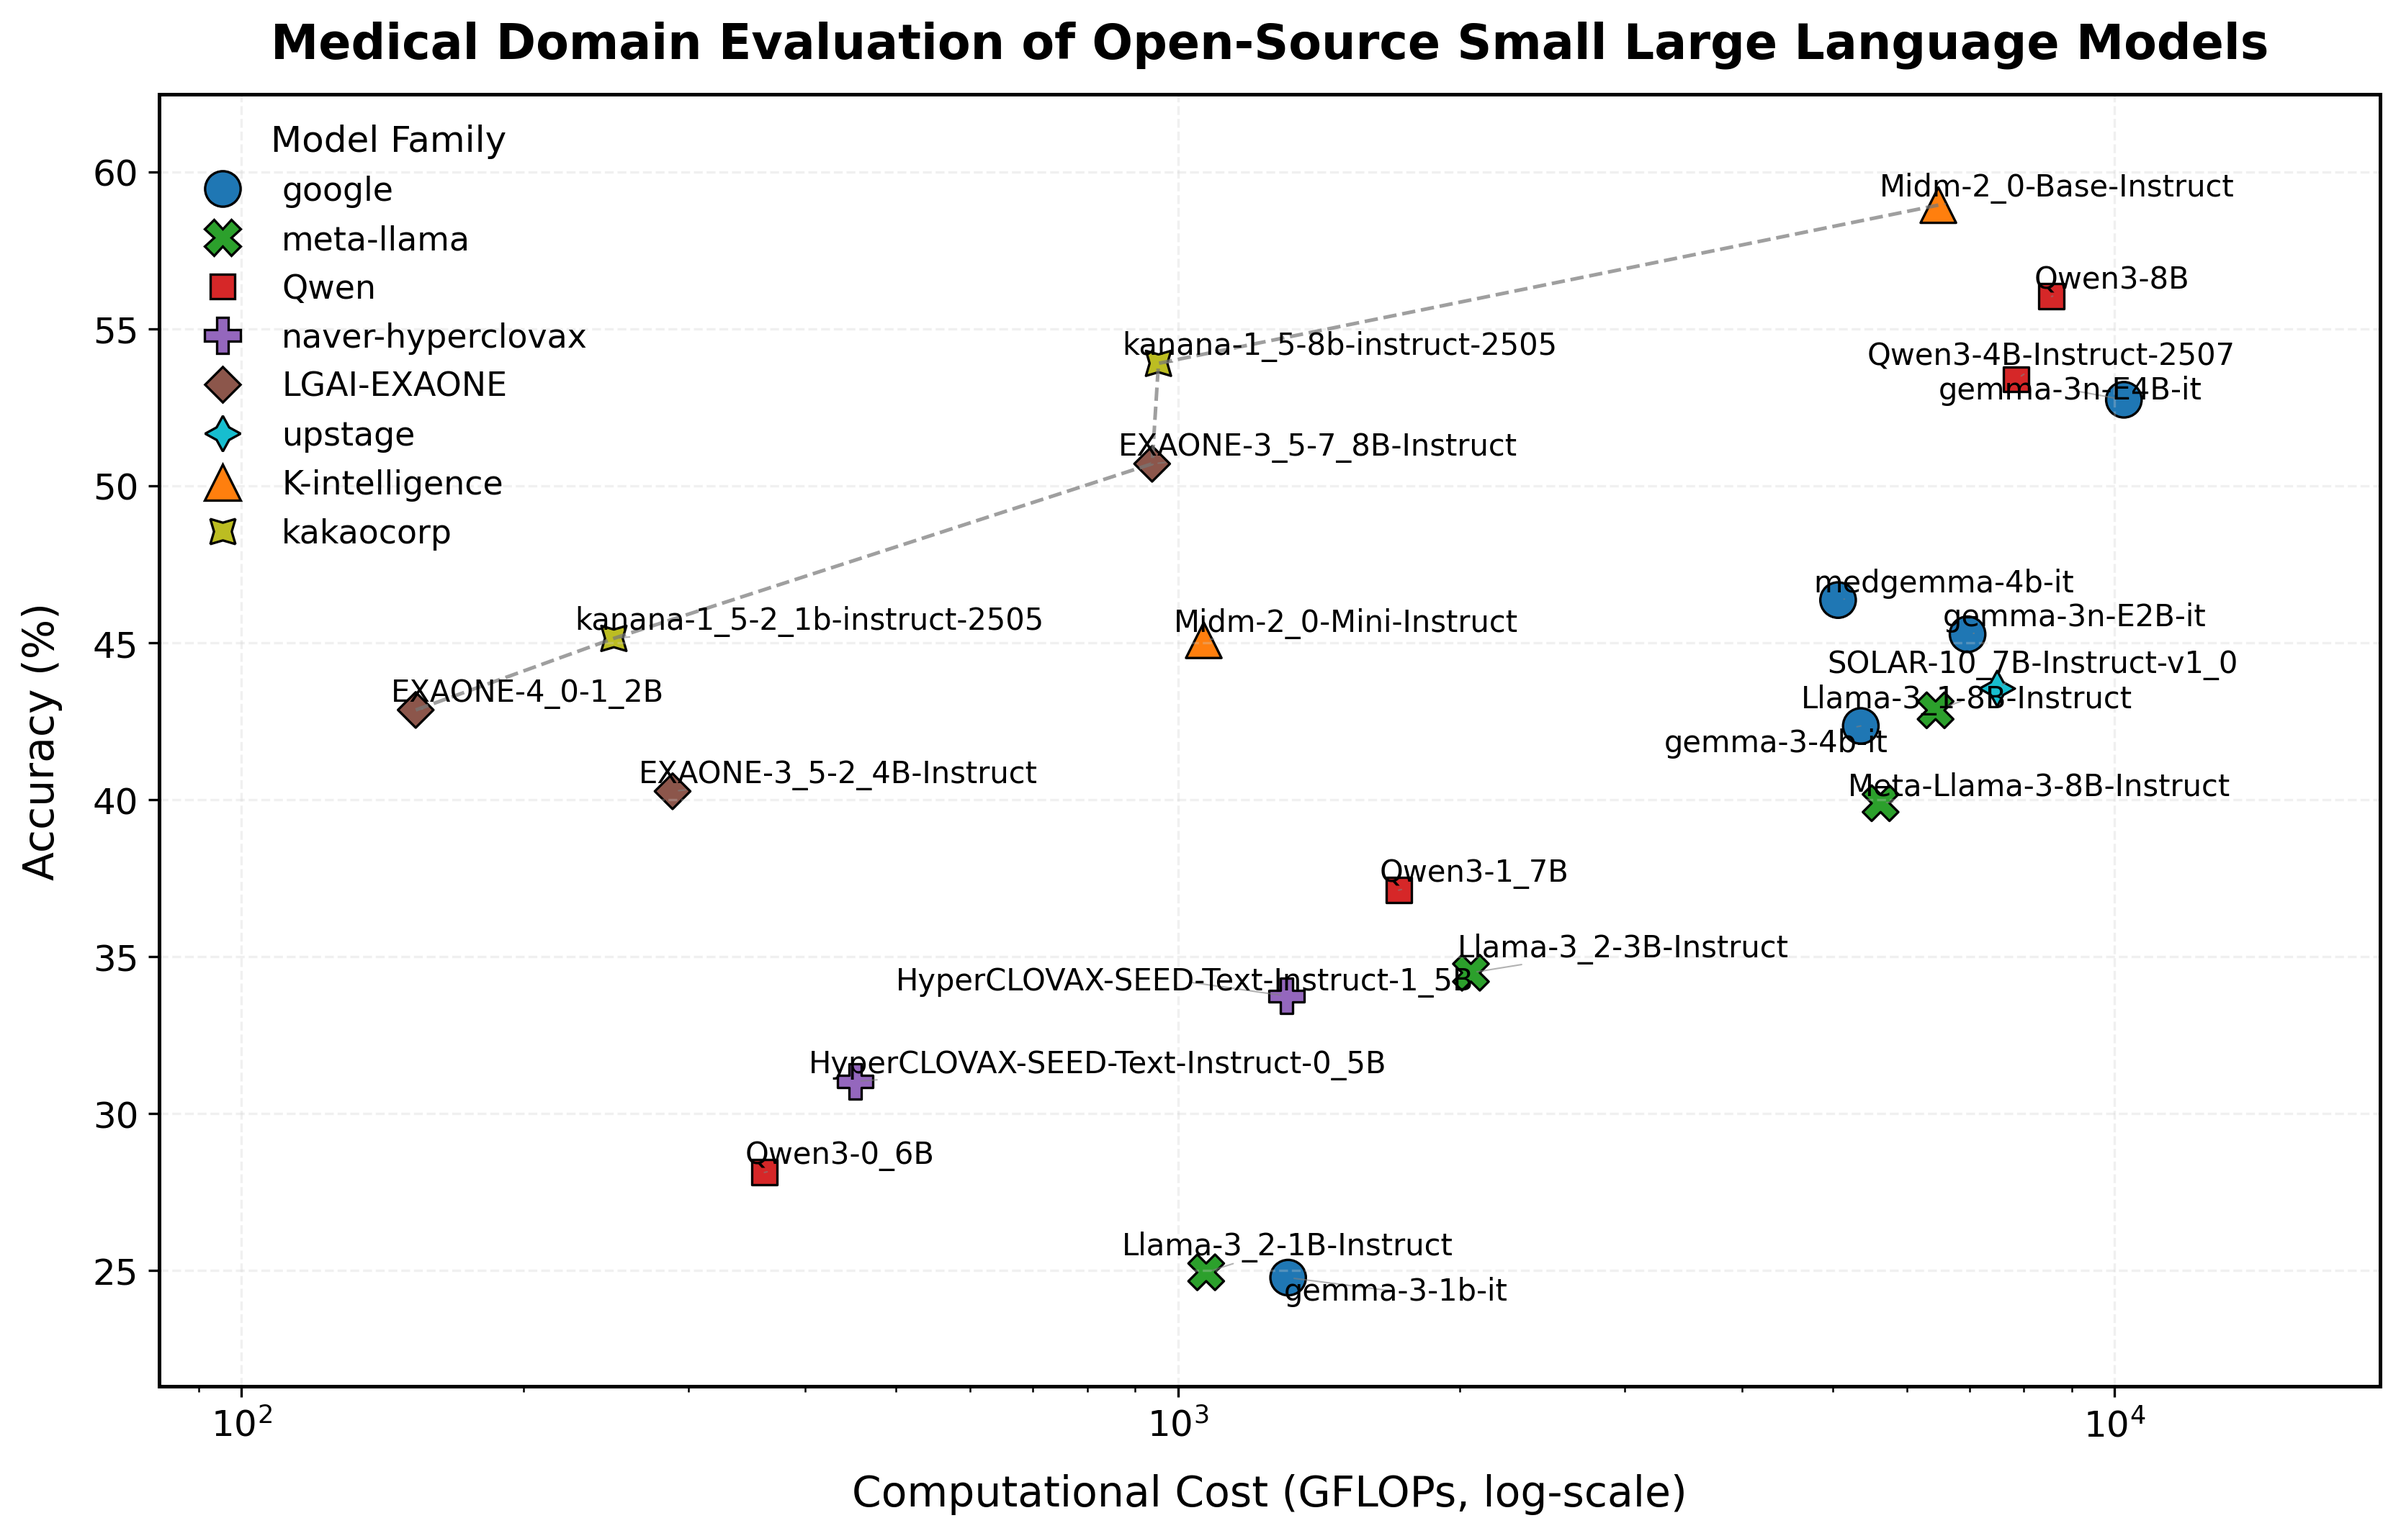
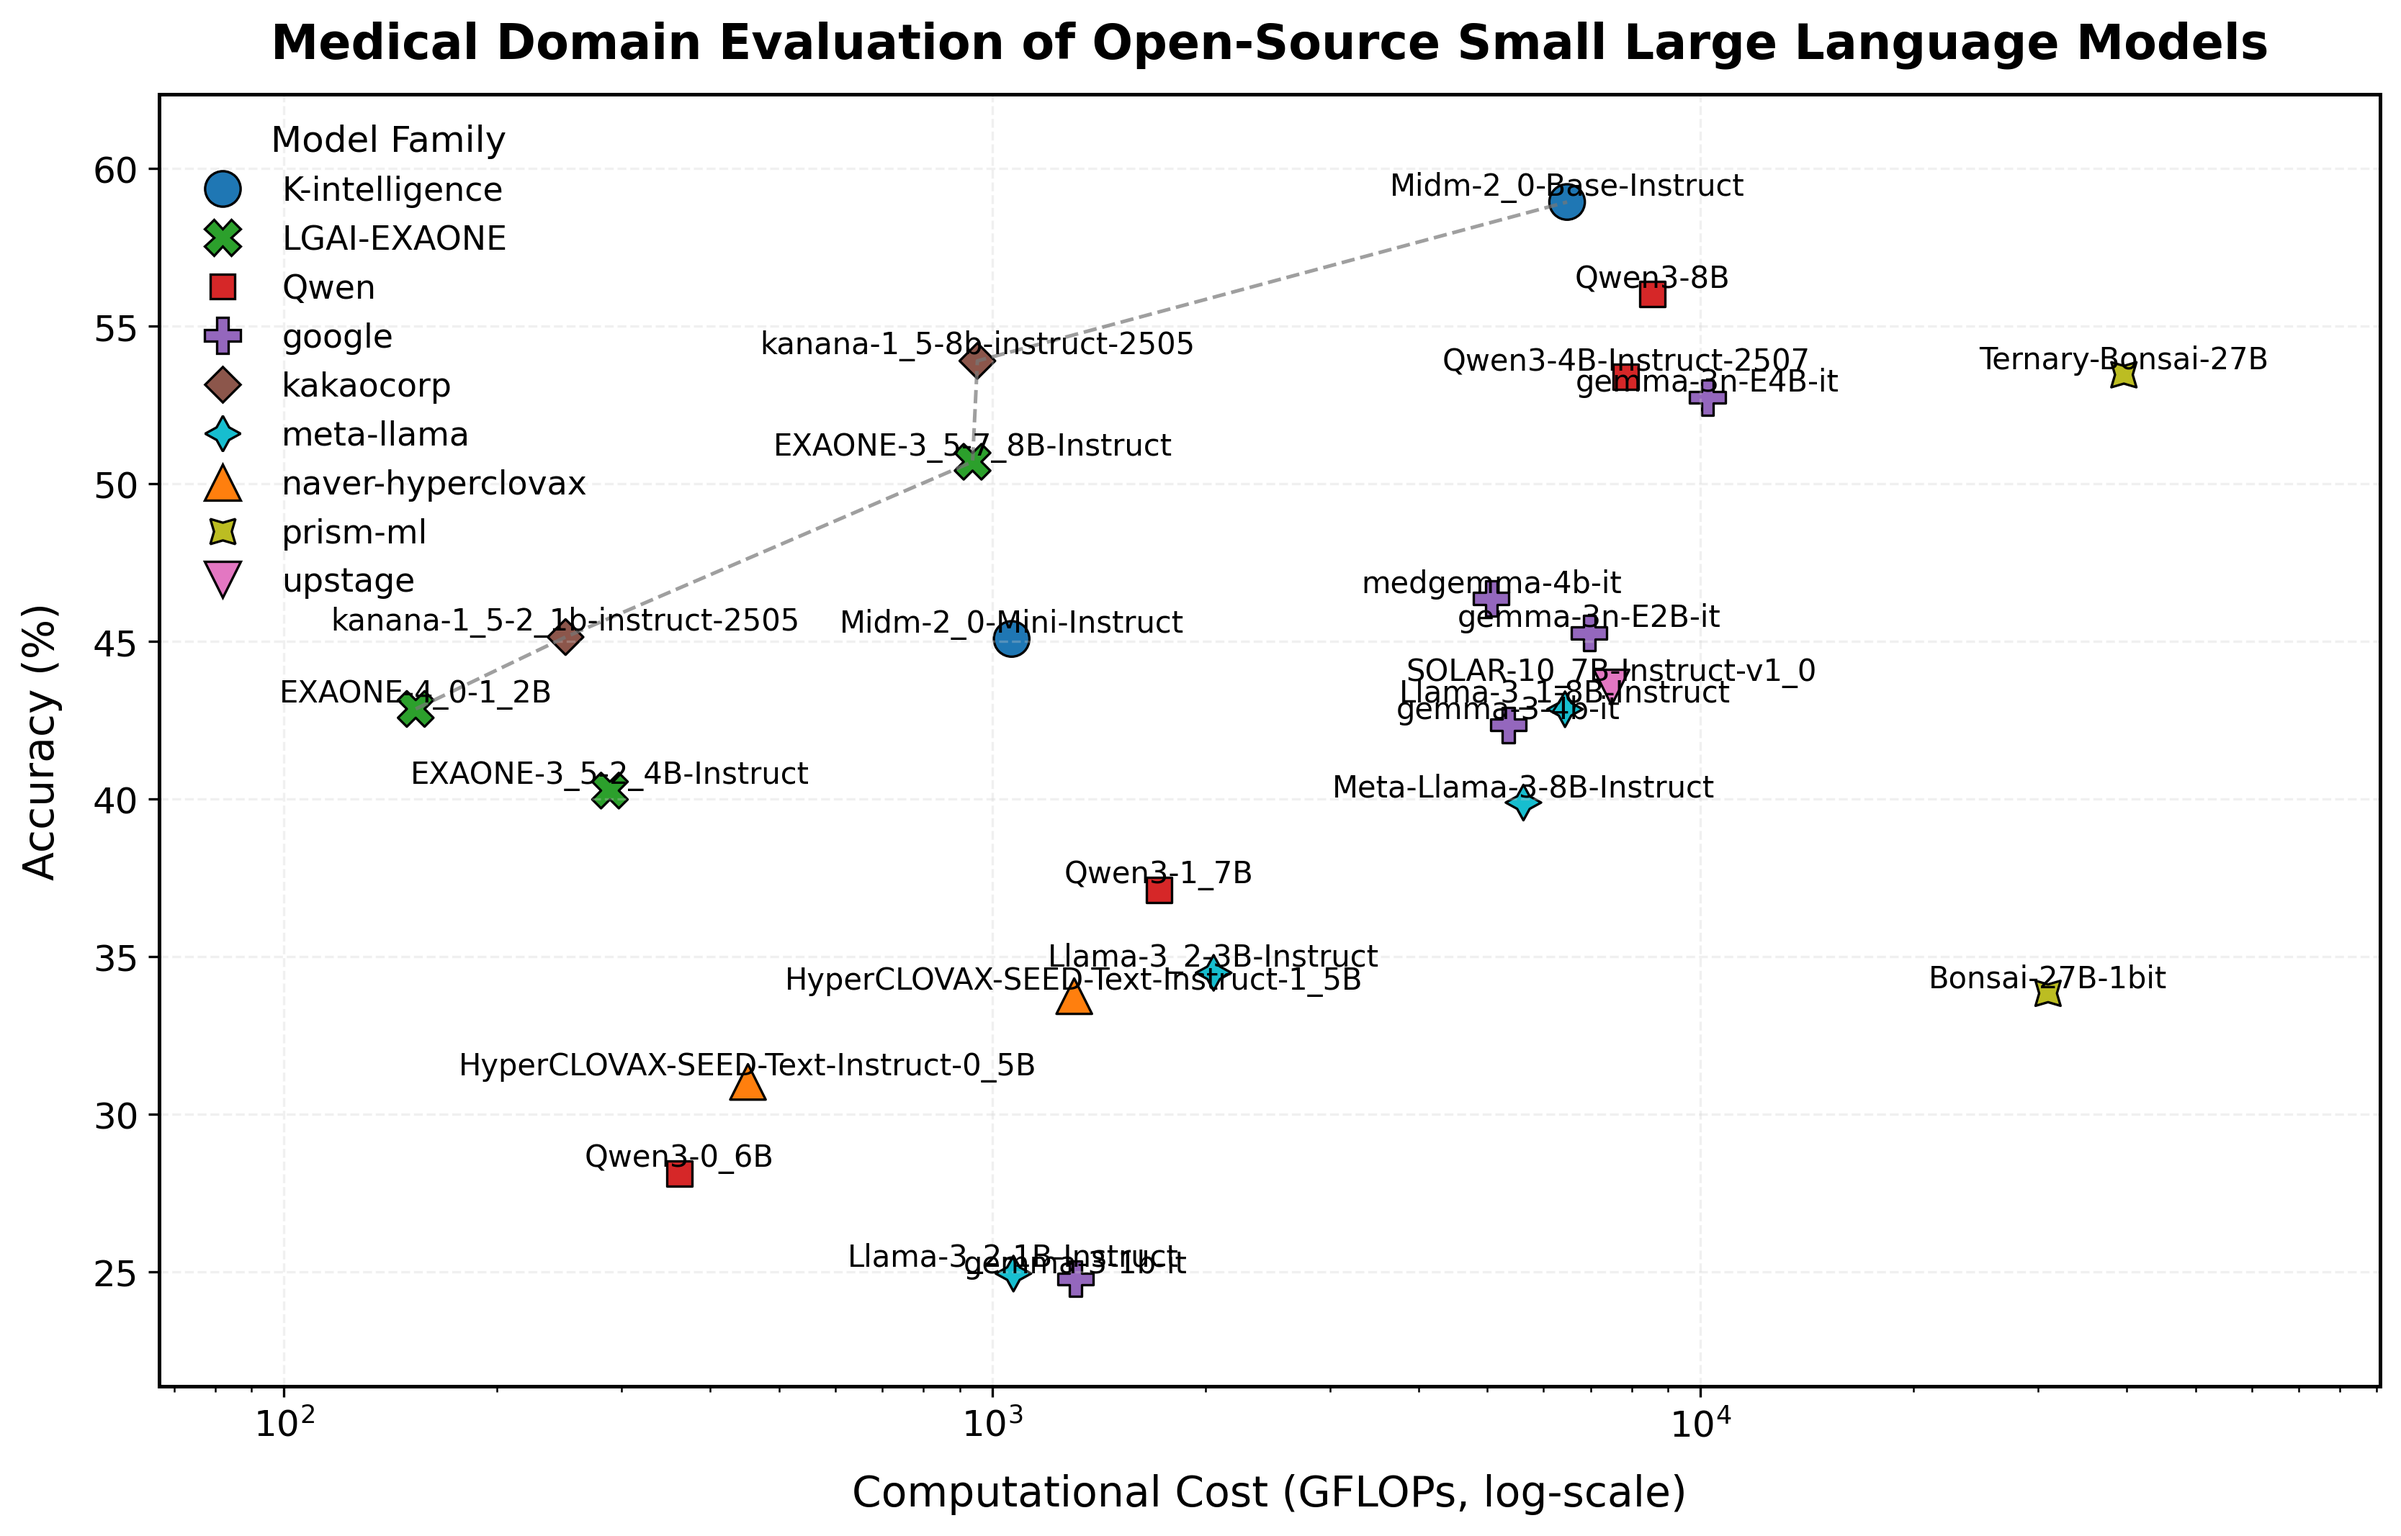
Publish Ternary and 1-bit Bonsai rows in benchmark tables and README.

diff --git a/scripts/9_update_benchmark_tables.py b/scripts/9_update_benchmark_tables.py
@@ -4,6 +4,8 @@ from __future__ import annotations
 import argparse
 from pathlib import Path
 
+import pandas as pd
+
 from scripts.benchmark_table_lib import (
     DATASETS,
     DISPLAY_COLS,
@@ -11,8 +13,11 @@ from scripts.benchmark_table_lib import (
     display_frame,
     plot_medical_llm_benchmark_nature,
     summarize_dataset,
+    sync_readme,
+    verify_bonsai_rows,
     write_csv_md,
 )
+from src.metrics import ClinicalQAEvaluator
 
 ROOT = Path(__file__).resolve().parents[1]
 RESULTS = ROOT / "kor_med_opendataset" / "results"
@@ -41,6 +46,29 @@ def main() -> None:
                 summary,
                 save_path=BENCH / f"{ds['stem']}.png",
             )
+
+    if not args.dry_run and not args.skip_readme:
+        sync_readme(ROOT / "README.md", BENCH)
+        print("synced README.md")
+
+    if not args.dry_run:
+        verify_bonsai_rows(BENCH)
+        parquet = (
+            RESULTS
+            / "snuh_ClinicalQA_benchmark"
+            / "prism-ml_Ternary-Bonsai-27B-gguf"
+            / "prism-ml_Ternary-Bonsai-27B-gguf_detailed.parquet"
+        )
+        acc = ClinicalQAEvaluator(str(parquet)).summary()["accuracy (%)"].iloc[0]
+        csv = pd.read_csv(BENCH / "snuh_ClinicalQA_benchmark.csv")
+        row = csv[
+            (csv.model_group == "prism-ml") & (csv.model_name == "Ternary-Bonsai-27B")
+        ].iloc[0]
+        if abs(float(row["accuracy (%)"]) - float(acc)) > 0.01:
+            raise AssertionError(
+                f"SNUH Ternary accuracy mismatch csv={row['accuracy (%)']} parquet={acc}"
+            )
+        print("verified Bonsai rows + pngs + SNUH Ternary accuracy")
 
 
 if __name__ == "__main__":

diff --git a/scripts/benchmark_table_lib.py b/scripts/benchmark_table_lib.py
@@ -158,6 +158,27 @@ def replace_readme_table(readme_text: str, summary_substr: str, new_md_table: st
     return out
 
 
+def sync_readme(readme_path: Path, benchmark_dir: Path, datasets=DATASETS) -> None:
+    text = readme_path.read_text(encoding="utf-8")
+    for ds in datasets:
+        md_table = (benchmark_dir / f"{ds['stem']}.md").read_text(encoding="utf-8")
+        text = replace_readme_table(text, ds["readme_summary_substr"], md_table)
+    readme_path.write_text(text, encoding="utf-8")
+
+
+def verify_bonsai_rows(benchmark_dir: Path, datasets=DATASETS) -> None:
+    required = {("prism-ml", "Ternary-Bonsai-27B"), ("prism-ml", "Bonsai-27B-1bit")}
+    for ds in datasets:
+        df = pd.read_csv(benchmark_dir / f"{ds['stem']}.csv")
+        got = set(zip(df["model_group"], df["model_name"]))
+        missing = required - got
+        if missing:
+            raise AssertionError(f"{ds['stem']} missing {missing}")
+        png = benchmark_dir / f"{ds['stem']}.png"
+        if not png.exists() or png.stat().st_size < 10_000:
+            raise AssertionError(f"bad/missing png for {ds['stem']}")
+
+
 def set_nature_style() -> None:
     plt.rcParams.update(
         {

diff --git a/README.md b/README.md
@@ -16,6 +16,8 @@ The following tables show benchmark results for each dataset, including accuracy
 
 ![SNUH ClinicalQA Benchmark](benchmark/snuh_ClinicalQA_benchmark.png)
 
+
+
 | model_group | model_name | accuracy (%) | avg_time_per_token (s) | mean_flops (GFlops) |
 |----|----|----|----|----|
 | K-intelligence | Midm-2_0-Mini-Instruct | 54.17 | 0.024 | 1021.289 |
@@ -40,7 +42,10 @@ The following tables show benchmark results for each dataset, including accuracy
 | meta-llama | Llama-3_1-8B-Instruct | 56.08 | 0.024 | 7541.13 |
 | naver-hyperclovax | HyperCLOVAX-SEED-Text-Instruct-1_5B | 41.63 | 0.01 | 1322.43 |
 | naver-hyperclovax | HyperCLOVAX-SEED-Text-Instruct-0_5B | 42.04 | 0.011 | 479.408 |
+| prism-ml | Bonsai-27B-1bit | 48.42 | 0.011 | 29415.324 |
+| prism-ml | Ternary-Bonsai-27B | 70.33 | 0.017 | 38980.456 |
 | upstage | SOLAR-10_7B-Instruct-v1_0 | 50.68 | 0.033 | 9346.172 |
+
 
 </details>
 
@@ -48,6 +53,8 @@ The following tables show benchmark results for each dataset, including accuracy
 <summary><b>KorMedMCQA - Doctor</b> (Click to expand)</summary>
 
 ![KorMedMCQA Doctor Benchmark](benchmark/sean0042_KorMedMCQA_benchmark_doctor.png)
+
+
 
 | model_group | model_name | accuracy (%) | avg_time_per_token (s) | mean_flops (GFlops) |
 |----|----|----|----|----|
@@ -73,7 +80,10 @@ The following tables show benchmark results for each dataset, including accuracy
 | meta-llama | Llama-3_1-8B-Instruct | 42.85 | 0.02 | 6438.361 |
 | naver-hyperclovax | HyperCLOVAX-SEED-Text-Instruct-0_5B | 31.03 | 0.019 | 452.043 |
 | naver-hyperclovax | HyperCLOVAX-SEED-Text-Instruct-1_5B | 33.75 | 0.011 | 1305.735 |
+| prism-ml | Bonsai-27B-1bit | 33.84 | 0.011 | 30956.668 |
+| prism-ml | Ternary-Bonsai-27B | 53.46 | 0.017 | 39611.92 |
 | upstage | SOLAR-10_7B-Instruct-v1_0 | 43.54 | 0.127 | 7490.88 |
+
 
 </details>
 
@@ -81,6 +91,8 @@ The following tables show benchmark results for each dataset, including accuracy
 <summary><b>KorMedMCQA - Nurse</b> (Click to expand)</summary>
 
 ![KorMedMCQA Nurse Benchmark](benchmark/sean0042_KorMedMCQA_benchmark_nurse.png)
+
+
 
 | model_group | model_name | accuracy (%) | avg_time_per_token (s) | mean_flops (GFlops) |
 |----|----|----|----|----|
@@ -106,7 +118,10 @@ The following tables show benchmark results for each dataset, including accuracy
 | meta-llama | Llama-3_1-8B-Instruct | 56.1 | 0.02 | 4976.065 |
 | naver-hyperclovax | HyperCLOVAX-SEED-Text-Instruct-0_5B | 46.07 | 0.012 | 357.542 |
 | naver-hyperclovax | HyperCLOVAX-SEED-Text-Instruct-1_5B | 46.42 | 0.011 | 1007.87 |
+| prism-ml | Bonsai-27B-1bit | 44.4 | 0.012 | 20922.379 |
+| prism-ml | Ternary-Bonsai-27B | 59.74 | 0.015 | 25310.784 |
 | upstage | SOLAR-10_7B-Instruct-v1_0 | 55.23 | 0.107 | 5916.325 |
+
 
 </details>
 
@@ -114,6 +129,8 @@ The following tables show benchmark results for each dataset, including accuracy
 <summary><b>KorMedMCQA - Dentist</b> (Click to expand)</summary>
 
 ![KorMedMCQA Dentist Benchmark](benchmark/sean0042_KorMedMCQA_benchmark_dentist.png)
+
+
 
 | model_group | model_name | accuracy (%) | avg_time_per_token (s) | mean_flops (GFlops) |
 |----|----|----|----|----|
@@ -139,7 +156,10 @@ The following tables show benchmark results for each dataset, including accuracy
 | meta-llama | Llama-3_1-8B-Instruct | 41.19 | 0.02 | 4666.221 |
 | naver-hyperclovax | HyperCLOVAX-SEED-Text-Instruct-0_5B | 28.54 | 0.012 | 361.934 |
 | naver-hyperclovax | HyperCLOVAX-SEED-Text-Instruct-1_5B | 33.9 | 0.012 | 988.616 |
+| prism-ml | Bonsai-27B-1bit | 31.01 | 0.012 | 23669.859 |
+| prism-ml | Ternary-Bonsai-27B | 35.82 | 0.014 | 27649.727 |
 | upstage | SOLAR-10_7B-Instruct-v1_0 | 38.5 | 0.108 | 5703.901 |
+
 
 </details>
 
@@ -147,6 +167,8 @@ The following tables show benchmark results for each dataset, including accuracy
 <summary><b>KorMedMCQA - Pharm</b> (Click to expand)</summary>
 
 ![KorMedMCQA Pharm Benchmark](benchmark/sean0042_KorMedMCQA_benchmark_pharm.png)
+
+
 
 | model_group | model_name | accuracy (%) | avg_time_per_token (s) | mean_flops (GFlops) |
 |----|----|----|----|----|
@@ -172,7 +194,10 @@ The following tables show benchmark results for each dataset, including accuracy
 | meta-llama | Llama-3_1-8B-Instruct | 57.69 | 0.02 | 5511.361 |
 | naver-hyperclovax | HyperCLOVAX-SEED-Text-Instruct-0_5B | 33.83 | 0.012 | 386.261 |
 | naver-hyperclovax | HyperCLOVAX-SEED-Text-Instruct-1_5B | 34.63 | 0.01 | 1156.326 |
+| prism-ml | Bonsai-27B-1bit | 43.75 | 0.012 | 25481.853 |
+| prism-ml | Ternary-Bonsai-27B | 60.23 | 0.014 | 29626.915 |
 | upstage | SOLAR-10_7B-Instruct-v1_0 | 57.82 | 0.133 | 5088.664 |
+
 
 </details>
 
@@ -180,6 +205,8 @@ The following tables show benchmark results for each dataset, including accuracy
 <summary><b>AIHub Professional Medical Knowledge (Multiple Choice)</b> (Click to expand)</summary>
 
 ![AIHub Professional Medical Knowledge Benchmark](benchmark/aihub_전문_의학지식_데이터_benchmark_객관식.png)
+
+
 
 | model_group | model_name | accuracy (%) | avg_time_per_token (s) | mean_flops (GFlops) |
 |----|----|----|----|----|
@@ -204,7 +231,10 @@ The following tables show benchmark results for each dataset, including accuracy
 | meta-llama | Llama-3_1-8B-Instruct | 66.14 | 0.027 | 5295.684 |
 | naver-hyperclovax | HyperCLOVAX-SEED-Text-Instruct-0_5B | 47.69 | 0.012 | 360.587 |
 | naver-hyperclovax | HyperCLOVAX-SEED-Text-Instruct-1_5B | 53.94 | 0.011 | 1080.065 |
+| prism-ml | Bonsai-27B-1bit | 61.07 | 0.03 | 23474.911 |
+| prism-ml | Ternary-Bonsai-27B | 68.39 | 0.015 | 27161.501 |
 | upstage | SOLAR-10_7B-Instruct-v1_0 | 64.22 | 0.106 | 6748.665 |
+
 
 </details>
 
@@ -212,6 +242,8 @@ The following tables show benchmark results for each dataset, including accuracy
 <summary><b>AIHub Essential Medical Knowledge (Multiple Choice)</b> (Click to expand)</summary>
 
 ![AIHub Essential Medical Knowledge Benchmark](benchmark/aihub_필수의료_의학지식_데이터_benchmark_객관식.png)
+
+
 
 | model_group | model_name | accuracy (%) | avg_time_per_token (s) | mean_flops (GFlops) |
 |----|----|----|----|----|
@@ -236,7 +268,10 @@ The following tables show benchmark results for each dataset, including accuracy
 | meta-llama | Llama-3_1-8B-Instruct | 64.58 | 0.02 | 5491.641 |
 | naver-hyperclovax | HyperCLOVAX-SEED-Text-Instruct-0_5B | 44.97 | 0.014 | 381.43 |
 | naver-hyperclovax | HyperCLOVAX-SEED-Text-Instruct-1_5B | 50.42 | 0.012 | 1125.338 |
+| prism-ml | Bonsai-27B-1bit | 59.9 | 0.043 | 24894.901 |
+| prism-ml | Ternary-Bonsai-27B | 68.93 | 0.014 | 28912.669 |
 | upstage | SOLAR-10_7B-Instruct-v1_0 | 63.65 | 0.101 | 7085.255 |
+
 
 </details>
 
